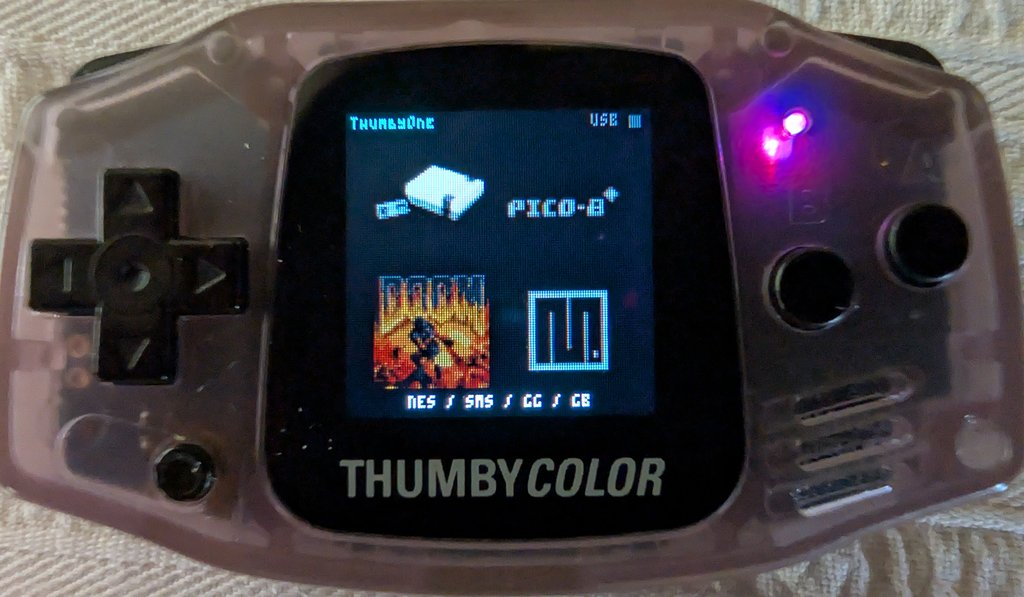
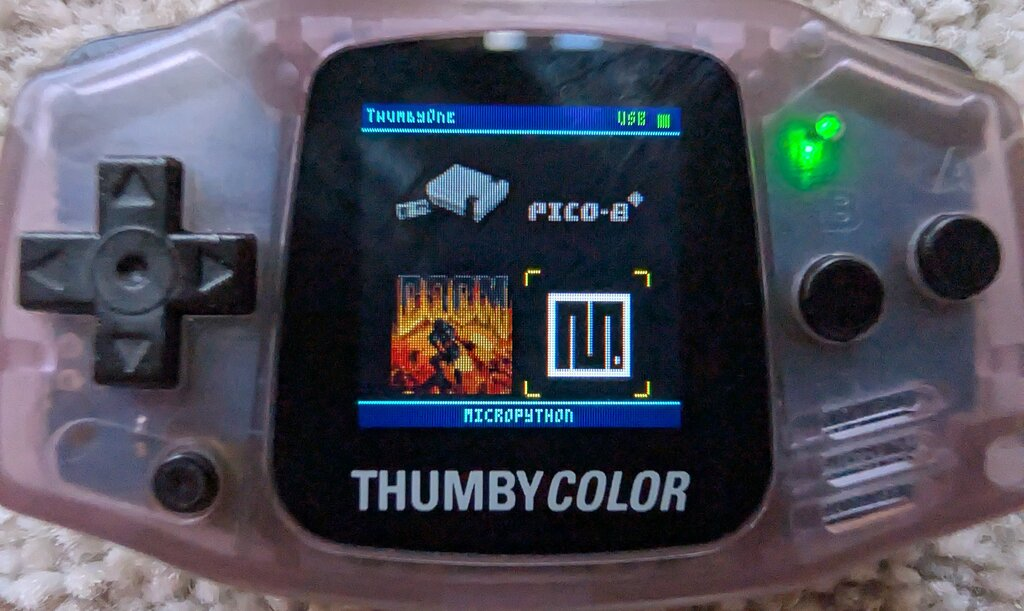
MPY overlay resume: soft LCD release instead of peripheral reset
The overlay's "resume game" path was calling nes_lcd_teardown(),
which resets the SPI0 and DMA peripheral blocks — that wipes the
engine's own claimed DMA channels (audio + display) and the next
engine tick hangs / the panel shows garbled/inverted pixels.

Split out a softer nes_lcd_release() that just drains our DMA,
unclaims our channel, deasserts CS, and leaves SPI0 + the DMA
peripheral alone. nes_lcd_teardown() keeps the hard reset for
rom_chain_image handoff where we actually need a clean slate.

Also refresh the README screenshots for the new cyan header/footer
bars + yellow-corner selection, and add the lobby MENU overlay, the
DeepThumb running-game, and the MPY in-game hold-MENU overlay.
Update the LED colour table to match the shipping scheme: green
= idle, blue = mounted, red = transferring. Add MENU-in-lobby and
MENU-held-in-game to the controls tables.

diff --git a/common/picker/lcd_gc9107.c b/common/picker/lcd_gc9107.c
@@ -184,3 +184,31 @@ void nes_lcd_teardown(void) {
     unreset_block_mask_wait_blocking(
         RESETS_RESET_SPI0_BITS | RESETS_RESET_DMA_BITS);
 }
+
+void nes_lcd_release(void) {
+    /* Softer than teardown: hands the LCD back to an already-
+     * initialised driver in the same address space (the MPY
+     * engine's GC9107 driver). The engine left SPI0 enabled and
+     * its own DMA channel claimed; we must NOT reset either.
+     *
+     * We do:
+     *   1. Drain our DMA so the panel isn't mid-transfer.
+     *   2. Release our claimed DMA channel (a different one from
+     *      the engine's — dma_claim_unused_channel gave us one of
+     *      the 16 free slots).
+     *   3. Deassert CS so the next command from the engine starts
+     *      a fresh transaction.
+     *   4. Re-enable SPI0 in 16-bit mode. spi_init in our init path
+     *      may have left it in 8-bit after the last command write;
+     *      the engine's present() forces 16-bit via CR0, so this is
+     *      technically redundant but cheap insurance. */
+    nes_lcd_wait_idle();
+    gpio_put(PIN_CS, 1);
+    if (dma_ch >= 0) {
+        dma_channel_abort(dma_ch);
+        dma_channel_cleanup(dma_ch);
+        dma_channel_unclaim(dma_ch);
+        dma_ch = -1;
+    }
+    spi_set_format(LCD_SPI, 16, SPI_CPOL_1, SPI_CPHA_1, SPI_MSB_FIRST);
+}

diff --git a/common/picker/menu_watchdog.c b/common/picker/menu_watchdog.c
@@ -291,8 +291,12 @@ static void overlay_run(void) {
     }
 
     /* Resume path: hand the LCD back to the engine. Engine's next
-     * present() reconfigures SPI/DMA from its side. */
-    nes_lcd_teardown();
+     * present() will set its own SPI format + window and push
+     * frames using its own DMA channel. We must NOT reset the
+     * SPI0 or DMA peripheral blocks here — that would wipe the
+     * engine's claimed audio + display DMA channels and cause
+     * the engine to hang on its next tick. */
+    nes_lcd_release();
 
     /* Drain any still-held buttons so the game doesn't see the press
      * that closed the overlay. */

diff --git a/common/picker/lcd_gc9107.h b/common/picker/lcd_gc9107.h
@@ -40,4 +40,12 @@ void nes_lcd_backlight(int on);
  * After teardown, no more nes_lcd_* calls may be made. */
 void nes_lcd_teardown(void);
 
+/* Softer release used when handing the LCD back to an already-
+ * running driver (e.g. the MPY engine's display) rather than to
+ * the bootrom. Waits for our DMA to drain, releases our DMA
+ * channel, and deasserts CS — but does NOT reset the SPI0 or DMA
+ * peripheral blocks. Resetting those would kill the engine's own
+ * DMA channels (audio + display) and wedge it. */
+void nes_lcd_release(void);
+
 #endif

diff --git a/README.md b/README.md
@@ -70,7 +70,8 @@ That's it. On first boot the shared FAT is formatted automatically (you'll see a
 The lobby is the home screen. It's a 2×2 grid of system icons: NES, PICO-8, DOOM, and MicroPython. Move with the **d-pad**, press **A** to launch.
 
 <p align="center">
-  <img src="docs/screenshots/lobby.jpg" width="480" alt="ThumbyOne lobby — 2x2 system grid">
+  <img src="docs/screenshots/lobby.jpg"      width="380" alt="ThumbyOne lobby — 2x2 system grid">
+  <img src="docs/screenshots/lobby-menu.jpg" width="380" alt="Lobby MENU overlay — battery, disk, USB, firmware">
 </p>
 
 **Controls:**
@@ -79,19 +80,20 @@ The lobby is the home screen. It's a 2×2 grid of system icons: NES, PICO-8, DOO
 |---|---|
 | D-pad | Move selection between the four tiles |
 | **A** | Launch the selected system |
-| **MENU** | Reboot back to lobby (from anywhere) |
+| **MENU** | Open the lobby overlay (battery, disk, USB, firmware, reboot) |
 | **MENU** (held at boot) | Force lobby (bypass any pending slot chain) |
+| **MENU** (held in-game) | Return to lobby — works in NES, P8, and MPY slots |
 | **LB + RB** (held at boot) | Wipe and reformat the shared FAT |
 
 A small **USB** label + LED dot in the top-right corner of the lobby — and the device's physical RGB LED — both show the USB state:
 
 | On-screen dot | Physical LED | Meaning |
 |---|---|---|
-| dim grey | white | USB cable not connected (idle) |
-| green | green | Host has mounted the drive — safe to drop files |
-| yellow | yellow | Transfer in flight — **do not unplug** |
+| dim grey | green | USB cable not connected (idle) |
+| blue | blue | Host has mounted the drive — safe to drop files |
+| red | red | Transfer in flight — **do not unplug** |
 
-The physical LED mirrors the on-screen dot so you can see at a glance whether a transfer is still happening even without looking at the screen. When a copy finishes the LED settles back to green; when you eject or unplug, it goes back to white.
+The physical LED mirrors the on-screen dot so you can see at a glance whether a transfer is still happening even without looking at the screen. When a copy finishes the LED settles back to blue; when you eject or unplug, it goes back to green.
 
 Slot-launch is held off while USB is active: if you're mid-copy and press A, ThumbyOne waits for the FAT to go quiet before handing off, so a half-written file never turns into a corrupt one on the slot.
 
@@ -244,8 +246,12 @@ The real deal. Music, sound effects, save games, screen melts, all on a 128×128
 *The stock Thumby Color experience — [TinyCircuits-Tiny-Game-Engine](https://github.com/austinio7116/TinyCircuits-Tiny-Game-Engine) plus MicroPython.*
 
 <p align="center">
-  <img src="docs/screenshots/mpy-picker.jpg" width="380" alt="MPY hero picker — DeepThumb">
-  <img src="docs/screenshots/mpy-menu.jpg"   width="380" alt="MPY menu overlay">
+  <img src="docs/screenshots/mpy-picker.jpg"  width="380" alt="MPY hero picker — DeepThumb">
+  <img src="docs/screenshots/mpy-menu.jpg"    width="380" alt="MPY picker menu overlay">
+</p>
+<p align="center">
+  <img src="docs/screenshots/mpy-game.jpg"    width="380" alt="DeepThumb chess — running MPY game">
+  <img src="docs/screenshots/mpy-overlay.jpg" width="380" alt="MPY in-game hold-MENU overlay — back to lobby / resume">
 </p>
 
 MicroPython with the Tiny Game Engine C module baked in, running a custom C picker that replaces the stock launcher entirely. Drop a game folder into `/games/<GameName>/` with a `main.py`, an `icon.bmp`, and an `arcade_description.txt`, and it appears on the hero picker with full artwork, title, and blurb.
@@ -274,6 +280,7 @@ MicroPython with the Tiny Game Engine C module baked in, running a custom C pick
 | A | Launch the selected game |
 | B | Toggle favourite (★) for the highlighted game |
 | MENU | Open info overlay (battery, disk, sort, back to lobby) |
+| MENU (held in-game) | Open the in-game overlay — back to lobby or resume |
 
 **Game structure** in `/games/<name>/`:
 
